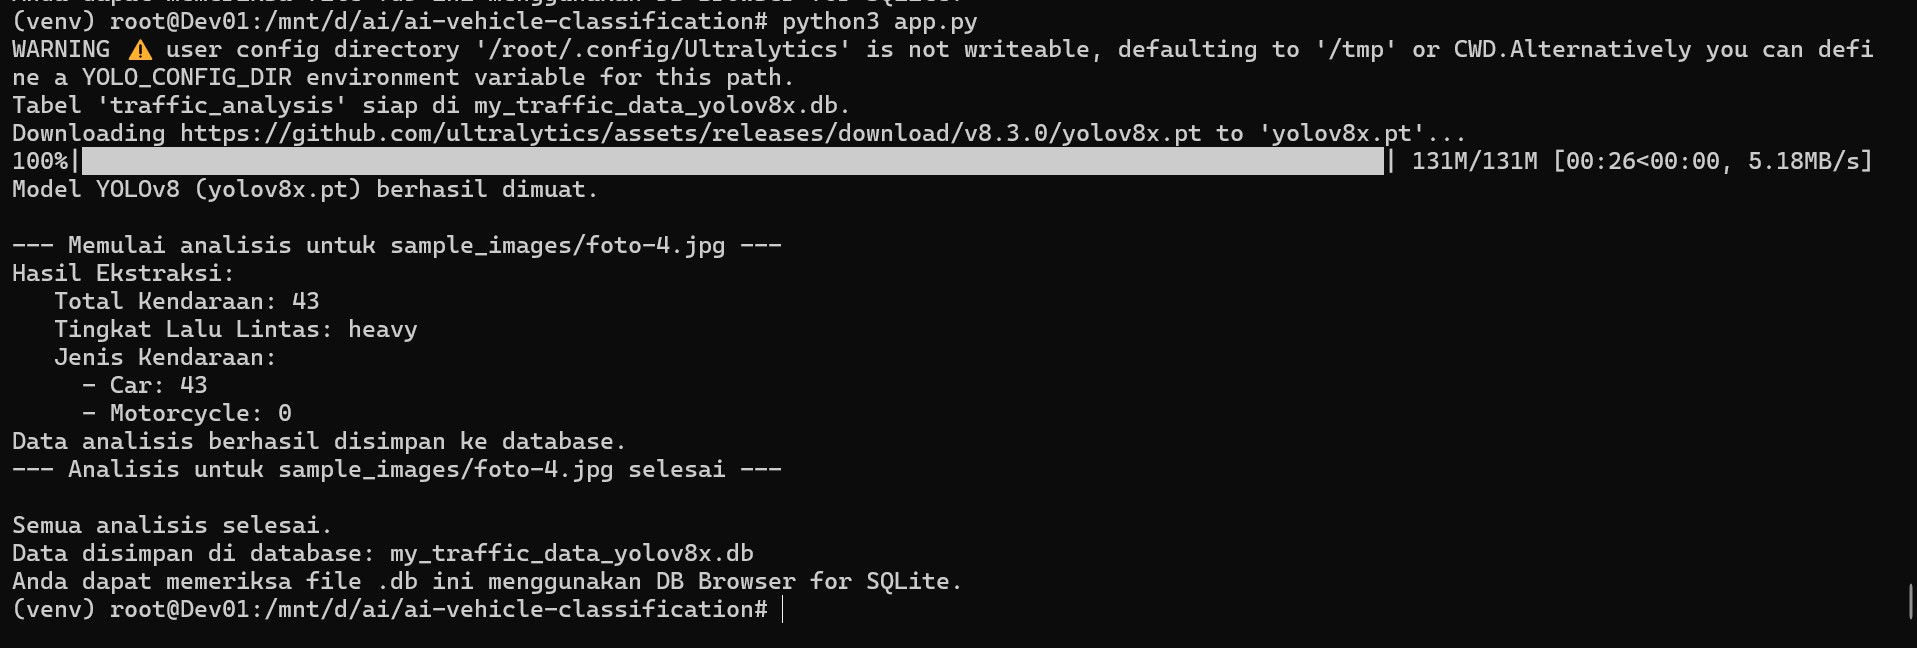
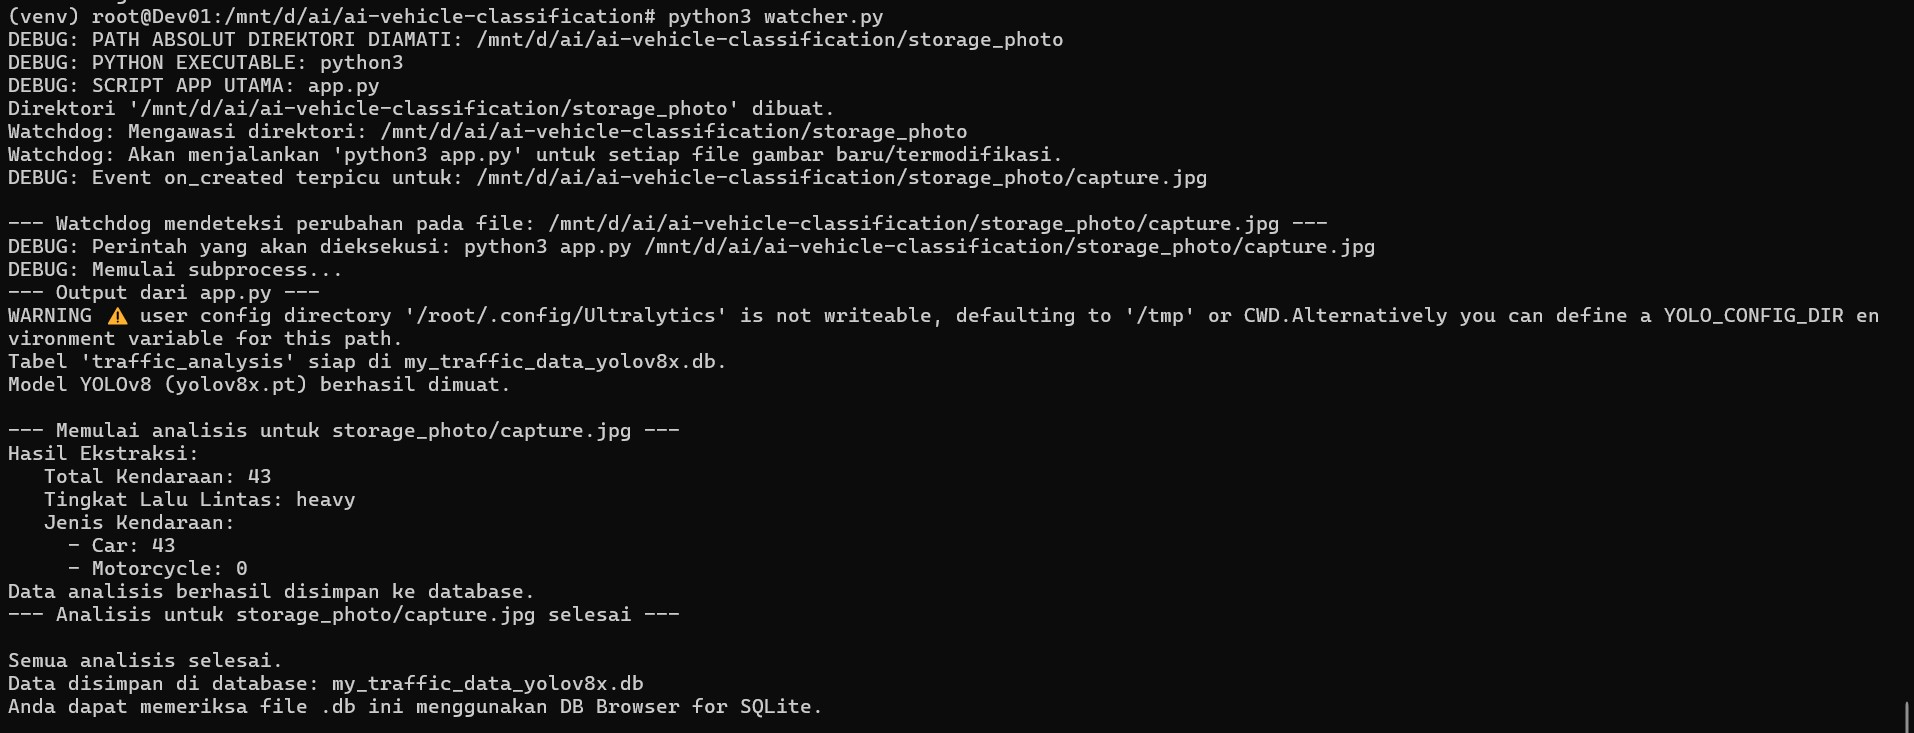
feat: menambah watcher

diff --git a/watcher.py b/watcher.py
@@ -1,0 +1,124 @@
+import time
+import os
+import sys
+import subprocess
+# --- Perubahan di sini: Menggunakan PollingObserver ---
+from watchdog.observers.polling import PollingObserver 
+from watchdog.events import FileSystemEventHandler
+
+# --- Konfigurasi ---
+# Pastikan path ini benar-benar absolut dan sesuai dengan lokasi file Anda di drive Windows
+# yang diakses dari WSL (misalnya /mnt/d/...)
+WATCH_DIRECTORY = "/mnt/d/ai/ai-vehicle-classification/storage_photo" # <-- Folder yang akan diawasi
+MAIN_APP_SCRIPT = "app.py"    # Script yang akan dijalankan saat ada perubahan
+PYTHON_EXECUTABLE = "python3" # <-- DIUBAH SECARA SPESIFIK KE "python3"
+
+# --- DEBUG: Cetak jalur absolut saat startup ---
+print(f"DEBUG: PATH ABSOLUT DIREKTORI DIAMATI: {os.path.abspath(WATCH_DIRECTORY)}")
+print(f"DEBUG: PYTHON EXECUTABLE: {PYTHON_EXECUTABLE}")
+print(f"DEBUG: SCRIPT APP UTAMA: {MAIN_APP_SCRIPT}")
+# --- Akhir DEBUG ---
+
+class MyHandler(FileSystemEventHandler):
+    def __init__(self, watch_dir, app_script, python_exe):
+        self.watch_dir = watch_dir
+        self.app_script = app_script
+        self.python_exe = python_exe
+        # Dictionary untuk menyimpan timestamp modifikasi terakhir dari SETIAP file yang diproses
+        self.processed_files_mtimes = {} 
+        print(f"Watchdog: Mengawasi direktori: {self.watch_dir}")
+        print(f"Watchdog: Akan menjalankan '{self.python_exe} {self.app_script}' untuk setiap file gambar baru/termodifikasi.")
+
+    def _process_file(self, file_path):
+        """
+        Fungsi helper untuk memproses file, hanya jika itu adalah file gambar.
+        """
+        # Filter untuk memastikan hanya file gambar yang diproses
+        if not file_path.lower().endswith(('.png', '.jpg', '.jpeg', '.gif', '.bmp', '.tiff')):
+            print(f"DEBUG: Melewatkan file non-gambar: {file_path}")
+            return
+
+        # Pastikan file ada sebelum mencoba mendapatkan mtime (ini penting jika file dihapus terlalu cepat)
+        if not os.path.exists(file_path):
+            print(f"Watchdog: File {file_path} tidak ditemukan saat event. Melewatkan.")
+            return
+
+        current_mtime = os.path.getmtime(file_path)
+
+        # Cek apakah file sudah diproses baru-baru ini berdasarkan timestamp
+        if file_path in self.processed_files_mtimes and self.processed_files_mtimes[file_path] == current_mtime:
+            print(f"DEBUG: Melewatkan {file_path} karena sudah diproses baru-baru ini (mtime sama).")
+            return
+
+        print(f"\n--- Watchdog mendeteksi perubahan pada file: {file_path} ---")
+        
+        # Tambahkan sedikit jeda untuk memastikan file selesai ditulis/disimpan
+        time.sleep(1) 
+
+        try:
+            # Jalankan app.py sebagai subprocess dengan path file sebagai argumen
+            command = [self.python_exe, self.app_script, file_path]
+            
+            # --- DEBUG: Cetak perintah yang akan dieksekusi ---
+            print(f"DEBUG: Perintah yang akan dieksekusi: {' '.join(command)}")
+            print(f"DEBUG: Memulai subprocess...")
+            # --- Akhir DEBUG ---
+
+            process = subprocess.run(command, capture_output=True, text=True, check=True)
+            
+            # --- DEBUG: Output dari app.py ---
+            print("--- Output dari app.py ---")
+            print(process.stdout)
+            if process.stderr:
+                print("--- Error dari app.py ---")
+                print(process.stderr)
+            print("--- app.py selesai ---")
+            # --- Akhir DEBUG ---
+
+            # Setelah berhasil diproses, catat timestamp modifikasi terakhir
+            self.processed_files_mtimes[file_path] = current_mtime
+
+        except subprocess.CalledProcessError as e:
+            print(f"Watchdog Error: '{self.app_script}' gagal dengan exit code {e.returncode}")
+            print(f"Watchdog Error Output: {e.stderr}")
+        except FileNotFoundError:
+            print(f"Watchdog Error: Interpreter '{self.python_exe}' atau script '{self.app_script}' tidak ditemukan di path yang ditentukan.")
+            print(f"Pastikan '{self.python_exe}' adalah path yang valid ke interpreter Python Anda, dan '{self.app_script}' ada di direktori yang sama atau di PATH.")
+        except Exception as e:
+            print(f"Watchdog Error: Terjadi kesalahan tidak terduga saat menjalankan '{self.app_script}': {e}")
+            import traceback
+            traceback.print_exc() # Cetak stack trace lengkap untuk debug lebih lanjut
+
+    def on_created(self, event):
+        """Dipanggil ketika sebuah file atau direktori dibuat."""
+        if not event.is_directory:
+            print(f"DEBUG: Event on_created terpicu untuk: {event.src_path}") # Debug print
+            self._process_file(event.src_path)
+
+    def on_modified(self, event):
+        """Dipanggil ketika sebuah file atau direktori dimodifikasi."""
+        if not event.is_directory:
+            print(f"DEBUG: Event on_modified terpicu untuk: {event.src_path}") # Debug print
+            self._process_file(event.src_path)
+    
+
+if __name__ == "__main__":
+    # Pastikan direktori WATCH_DIRECTORY ada
+    if not os.path.exists(WATCH_DIRECTORY):
+        os.makedirs(WATCH_DIRECTORY)
+        print(f"Direktori '{WATCH_DIRECTORY}' dibuat.")
+        
+    event_handler = MyHandler(WATCH_DIRECTORY, MAIN_APP_SCRIPT, PYTHON_EXECUTABLE)
+    # --- Perubahan di sini: Menggunakan PollingObserver ---
+    observer = PollingObserver() 
+    # recursive=False untuk hanya mengawasi folder utama, bukan subfolder di dalamnya
+    # Jika Anda ingin mengawasi subfolder, ubah ini menjadi recursive=True
+    observer.schedule(event_handler, WATCH_DIRECTORY, recursive=False) 
+    observer.start()
+    try:
+        while True:
+            time.sleep(1) # Interval polling default untuk PollingObserver adalah 1 detik
+    except KeyboardInterrupt:
+        observer.stop()
+    observer.join()
+    print("Watchdog berhenti.")

diff --git a/app.py b/app.py
@@ -64,13 +64,13 @@ class TrafficAnalysisApp:
 # --- Bagian Utama untuk Menjalankan Aplikasi ---
 if __name__ == "__main__":
     # Pastikan direktori untuk contoh gambar ada
-    sample_images_dir = "sample_images"
+    sample_images_dir = "storage_photo"
     if not os.path.exists(sample_images_dir):
         os.makedirs(sample_images_dir)
         print(f"Direktori '{sample_images_dir}' dibuat.")
         print("Pastikan untuk menempatkan gambar jalan raya asli di folder ini untuk pengujian.")
         # Buat file dummy agar script tidak crash, tetapi deteksi akan nol
-        with open(os.path.join(sample_images_dir, "dummy_foto.jpg"), "w") as f:
+        with open(os.path.join(sample_images_dir, "capture.jpg"), "w") as f:
             f.write("dummy content")
 
     # Inisialisasi aplikasi dengan YOLOv8x (model paling akurat)
@@ -79,7 +79,7 @@ if __name__ == "__main__":
 
     # Contoh penggunaan:
     # Ganti dengan path ke gambar asli Anda di folder sample_images
-    target_image_name = "foto-4.jpg" # <--- Menggunakan foto-1.jpeg sesuai diskusi sebelumnya
+    target_image_name = "capture.jpg" # <--- Menggunakan capture.jpeg sesuai diskusi sebelumnya
     sample_image_path = os.path.join(sample_images_dir, target_image_name)
 
     found_real_image = False
@@ -88,7 +88,7 @@ if __name__ == "__main__":
     
     if not found_real_image:
         print(f"\n[PERINGATAN] Gambar '{target_image_name}' tidak terdeteksi di '{sample_images_dir}' atau terlalu kecil.")
-        print("Pastikan Anda telah menempatkan foto lalu lintas asli (misalnya, foto-1.jpeg) di folder tersebut.")
+        print("Pastikan Anda telah menempatkan foto lalu lintas asli (misalnya, capture.jpeg) di folder tersebut.")
         # Jika gambar target tidak ditemukan, cari gambar lain yang valid di folder tersebut
         for fname in os.listdir(sample_images_dir):
             fpath = os.path.join(sample_images_dir, fname)
